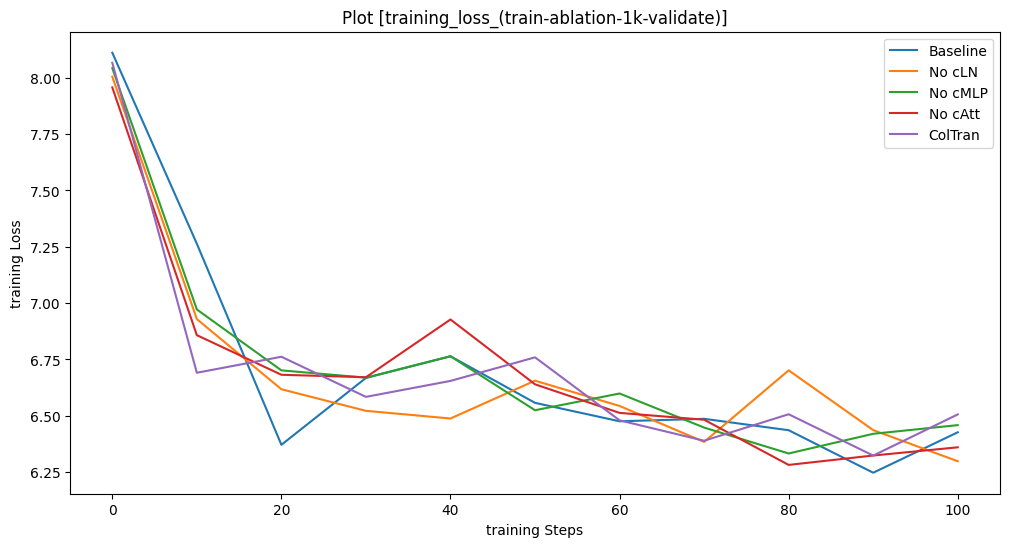
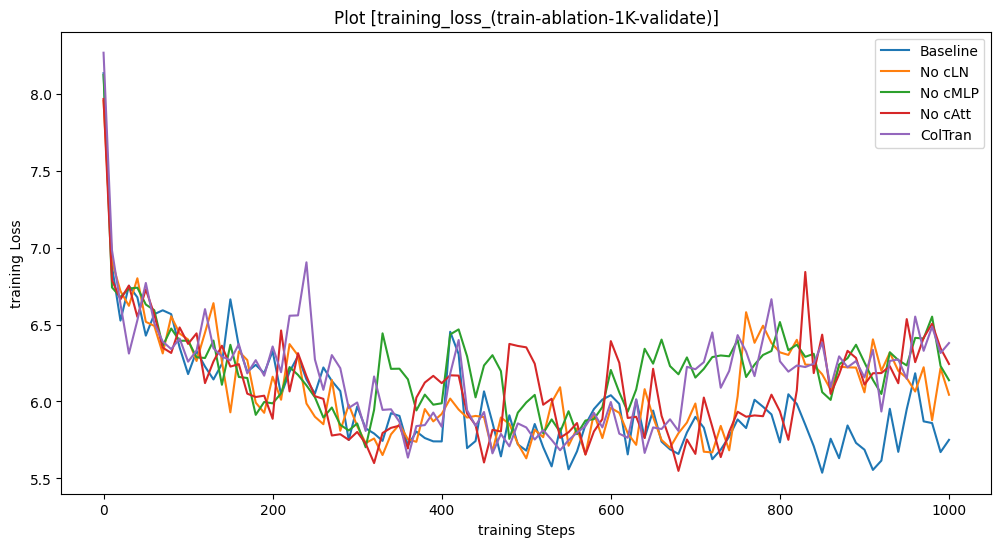
+ github readme with examples

diff --git a/README.md b/README.md
@@ -67,3 +67,6 @@ SYDE 671 Course Project and [2021 Reproducibility Challenge](https://paperswithc
    - `MAX_TRAIN = 20000` in `coltran_custom_train.py`
    - The pipeline will automatically pick up the latest model in the log directory, and continuing training as long as you set `MAX_TRAIN` to a greater value
 
+## 3. Results:
+![sample](fig/test.png)
+![sample](fig/test2.png)
